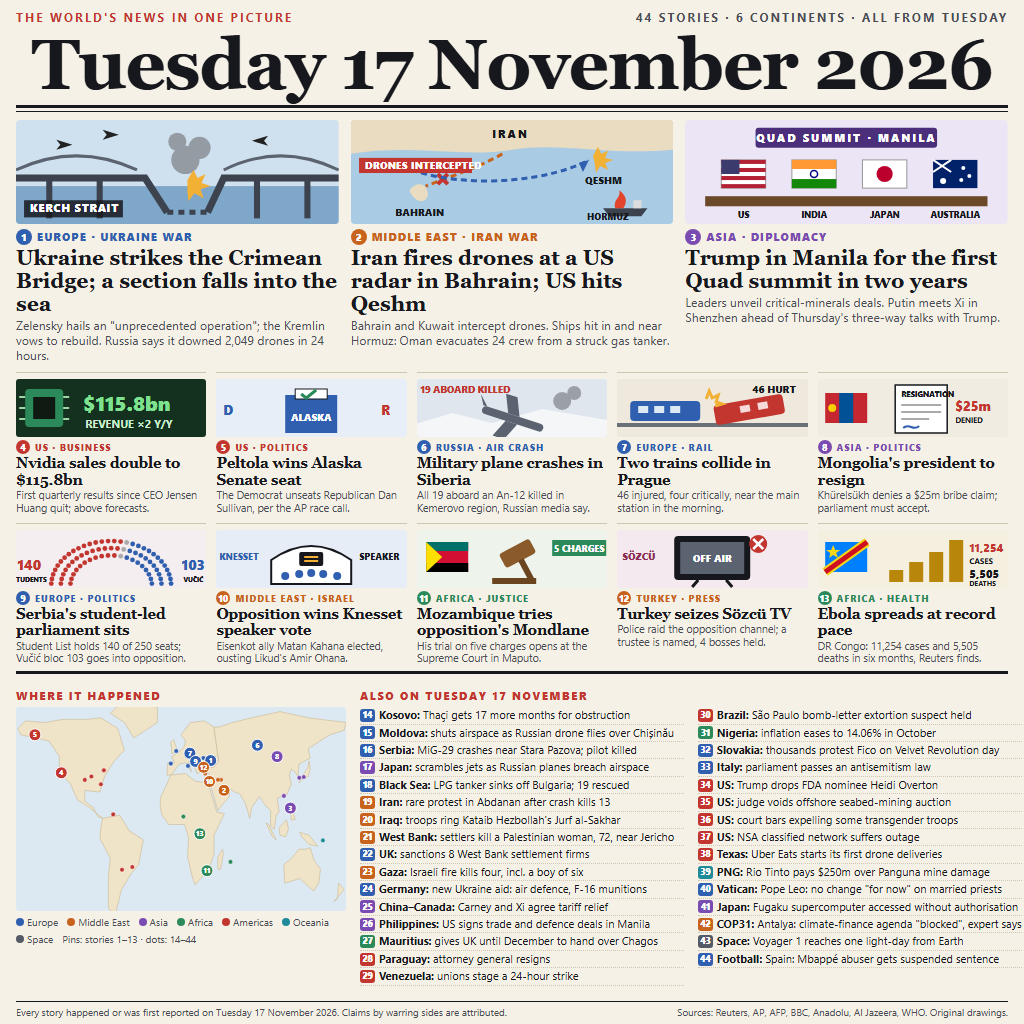
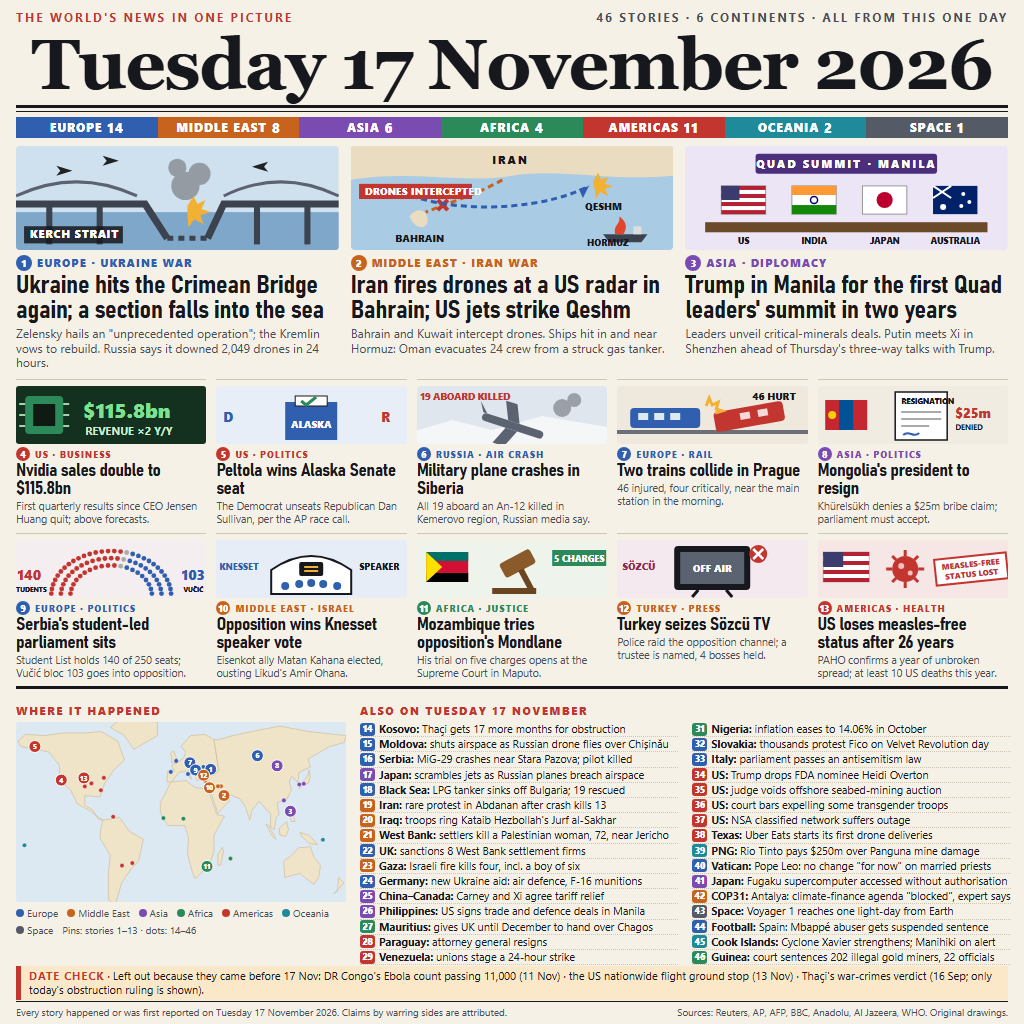
Version 3: condensed headlines, region band, date check, measles story

diff --git a/scene.html b/scene.html
@@ -15,6 +15,12 @@
   .top .l { color:var(--am); } .top .r { color:var(--muted); }
   h1 { margin:0; text-align:center; font-family:Georgia, serif; font-weight:700; font-size:71px; line-height:80px; letter-spacing:-1.5px; white-space:nowrap; }
   .rule2 { margin:0 16px; border-top:3px solid var(--ink); border-bottom:1px solid var(--ink); height:3px; }
+  .band { display:flex; margin:5px 16px 0; height:21px; }
+  .band span { flex:1; color:#fff; font-size:11.5px; font-weight:800; letter-spacing:1.2px; display:flex; align-items:center; justify-content:center; gap:5px; }
+  .band b { font-size:13px; }
+  .cond { font-family:Bahnschrift, "Arial Narrow", Arial, sans-serif; font-stretch:condensed; font-weight:700; letter-spacing:-.2px; }
+  .datecheck { position:absolute; left:16px; right:16px; bottom:24px; background:#fbe8c8; border-left:5px solid var(--am); padding:3px 8px; font-size:11px; line-height:14px; }
+  .datecheck b { color:var(--am); letter-spacing:1px; }
 
   /* leads */
   .leads { display:grid; grid-template-columns:repeat(3,1fr); gap:12px; padding:8px 16px 0; }
@@ -22,8 +28,8 @@
   .lead .pic svg { width:100%; height:100%; display:block; }
   .kick { font-size:10.5px; font-weight:800; letter-spacing:1.4px; text-transform:uppercase; margin-top:5px; display:flex; align-items:center; gap:5px; }
   .num { display:inline-flex; width:16px; height:16px; border-radius:50%; color:#fff; font-size:10px; font-weight:800; align-items:center; justify-content:center; letter-spacing:0; flex:none; }
-  .lead h2 { font-family:Georgia, serif; font-size:21px; line-height:23px; margin:2px 0 2px; }
-  .lead p { margin:0; font-size:12.2px; line-height:15px; color:var(--muted); }
+  .lead h2 { font-family:Bahnschrift, "Arial Narrow", Arial, sans-serif; font-stretch:condensed; font-weight:700; font-size:25px; line-height:25px; margin:2px 0 3px; letter-spacing:-.3px; }
+  .lead p { margin:0; font-size:12px; line-height:14.6px; color:var(--muted); }
 
   /* cards */
   .cards { display:grid; grid-template-columns:repeat(5,1fr); gap:8px 10px; padding:9px 16px 0; }
@@ -32,16 +38,16 @@
   .card .pic svg { width:100%; height:100%; display:block; }
   .card .kick { font-size:9px; letter-spacing:1px; margin-top:3px; }
   .card .num { width:14px; height:14px; font-size:9px; }
-  .card h3 { font-family:Georgia, serif; font-size:14.6px; line-height:16.5px; margin:1px 0 1px; }
+  .card h3 { font-family:Bahnschrift, "Arial Narrow", Arial, sans-serif; font-stretch:condensed; font-weight:700; font-size:17.5px; line-height:18px; margin:1px 0 2px; letter-spacing:-.2px; }
   .card p { margin:0; font-size:10.6px; line-height:12.8px; color:var(--muted); }
 
   /* bottom */
   .bottom { display:grid; grid-template-columns:330px 1fr; gap:14px; padding:8px 16px 0; margin-top:6px; border-top:3px solid var(--ink); margin-left:16px; margin-right:16px; padding-left:0; padding-right:0; }
   .sec { font-size:11px; font-weight:800; letter-spacing:1.6px; color:var(--am); margin:6px 0 4px; }
-  #map { width:330px; height:204px; display:block; background:#dce9f2; border-radius:3px; }
+  #map { width:330px; height:180px; display:block; background:#dce9f2; border-radius:3px; }
   .legend { display:flex; flex-wrap:wrap; gap:3px 9px; font-size:10px; color:var(--muted); margin-top:4px; }
   .legend i { display:inline-block; width:8px; height:8px; border-radius:50%; margin-right:3px; }
-  .also { columns:2; column-gap:14px; font-size:11px; line-height:16.4px; }
+  .also { columns:2; column-gap:14px; font-size:10.8px; line-height:14.2px; }
   .also div { break-inside:avoid; border-bottom:1px dotted var(--rule); padding:0 0 0 0; white-space:nowrap; overflow:hidden; text-overflow:clip; }
   .also .num { width:15px; height:13px; border-radius:3px; font-size:8.5px; margin-right:4px; vertical-align:1px; }
   .also b { font-weight:700; }
@@ -50,9 +56,10 @@
 </head>
 <body>
 
-<div class="top"><span class="l">THE WORLD'S NEWS IN ONE PICTURE</span><span class="r">44 STORIES · 6 CONTINENTS · ALL FROM TUESDAY</span></div>
+<div class="top"><span class="l">THE WORLD'S NEWS IN ONE PICTURE</span><span class="r" id="tally"></span></div>
 <h1>Tuesday 17 November 2026</h1>
 <div class="rule2"></div>
+<div class="band" id="band"></div>
 
 <section class="leads">
   <div class="lead">
@@ -69,7 +76,7 @@
       <rect x="8" y="80" width="98" height="17" fill="#16181d" opacity=".85"/><text x="14" y="92" font-size="10.5" font-weight="800" fill="#fff" letter-spacing="1">KERCH STRAIT</text>
     </svg></div>
     <div class="kick" style="color:var(--eu)"><span class="num" style="background:var(--eu)">1</span>Europe · Ukraine war</div>
-    <h2>Ukraine strikes the Crimean Bridge; a section falls into the sea</h2>
+    <h2>Ukraine hits the Crimean Bridge again; a section falls into the sea</h2>
     <p>Zelensky hails an "unprecedented operation"; the Kremlin vows to rebuild. Russia says it downed 2,049 drones in 24 hours.</p>
   </div>
   <div class="lead">
@@ -90,7 +97,7 @@
       <rect x="8" y="38" width="112" height="15" fill="#c2362f"/><text x="14" y="49" font-size="9.5" font-weight="800" fill="#fff" letter-spacing=".5">DRONES INTERCEPTED</text>
     </svg></div>
     <div class="kick" style="color:var(--me)"><span class="num" style="background:var(--me)">2</span>Middle East · Iran war</div>
-    <h2>Iran fires drones at a US radar in Bahrain; US hits Qeshm</h2>
+    <h2>Iran fires drones at a US radar in Bahrain; US jets strike Qeshm</h2>
     <p>Bahrain and Kuwait intercept drones. Ships hit in and near Hormuz: Oman evacuates 24 crew from a struck gas tanker.</p>
   </div>
   <div class="lead">
@@ -105,7 +112,7 @@
       <g font-size="8.5" font-weight="800" fill="#16181d" text-anchor="middle"><text x="58" y="98">US</text><text x="128" y="98">INDIA</text><text x="198" y="98">JAPAN</text><text x="268" y="98">AUSTRALIA</text></g>
     </svg></div>
     <div class="kick" style="color:var(--as)"><span class="num" style="background:var(--as)">3</span>Asia · Diplomacy</div>
-    <h2>Trump in Manila for the first Quad summit in two years</h2>
+    <h2>Trump in Manila for the first Quad leaders' summit in two years</h2>
     <p>Leaders unveil critical-minerals deals. Putin meets Xi in Shenzhen ahead of Thursday's three-way talks with Trump.</p>
   </div>
 </section>
@@ -115,7 +122,7 @@
 <section class="bottom">
   <div>
     <div class="sec">WHERE IT HAPPENED</div>
-    <svg id="map" viewBox="0 0 330 204"></svg>
+    <svg id="map" viewBox="0 0 330 180"></svg>
     <div class="legend" id="legend"></div>
   </div>
   <div>
@@ -124,6 +131,7 @@
   </div>
 </section>
 
+<div class="datecheck"><b>DATE CHECK</b> · Left out because they came before 17 Nov: DR Congo's Ebola count passing 11,000 (11 Nov) · the US nationwide flight ground stop (13 Nov) · Thaçi's war-crimes verdict (16 Sep; only today's obstruction ruling is shown).</div>
 <footer><span>Every story happened or was first reported on Tuesday 17 November 2026. Claims by warring sides are attributed.</span><span>Sources: Reuters, AP, AFP, BBC, Anadolu, Al Jazeera, WHO. Original drawings.</span></footer>
 
 <script>
@@ -161,6 +169,9 @@ const P = {
   tv: `<rect width="200" height="58" fill="#f3e9ee"/><rect x="62" y="6" width="76" height="44" rx="4" fill="#16181d"/><rect x="68" y="12" width="64" height="32" fill="#5b6270"/>
          <text x="100" y="32" font-size="10" font-weight="800" fill="#fff" text-anchor="middle">OFF AIR</text><circle cx="146" cy="14" r="9" fill="#c2362f"/><path d="M141 9l10 10M151 9l-10 10" stroke="#fff" stroke-width="2.5"/>
          <path d="M86 50 l-6 7 M114 50 l6 7" stroke="#16181d" stroke-width="3"/><text x="10" y="30" font-size="10" font-weight="800" fill="#8e2b52">SÖZCÜ</text>`,
+  measles: `<rect width="200" height="58" fill="#f6e6e6"/><g transform="translate(10 12)"><rect width="46" height="30" fill="#fff" stroke="#bbb"/><g fill="#b22234"><rect width="46" height="4"/><rect y="9" width="46" height="4"/><rect y="18" width="46" height="4"/><rect y="26" width="46" height="4"/></g><rect width="20" height="15" fill="#3c3b6e"/></g>
+         <g transform="translate(92 29)"><circle r="13" fill="#c2362f"/><g stroke="#c2362f" stroke-width="3"><path d="M0 -13v-6M0 13v6M-13 0h-6M13 0h6M9 -9l4 -4M-9 9l-4 4M9 9l4 4M-9 -9l-4 -4"/></g><circle cx="-4" cy="-3" r="3" fill="#f6c0c0"/><circle cx="5" cy="4" r="2.5" fill="#f6c0c0"/></g>
+         <rect x="122" y="16" width="72" height="26" fill="#fff" stroke="#c2362f" stroke-width="2" transform="rotate(-6 158 29)"/><text x="158" y="27" font-size="8" font-weight="800" fill="#c2362f" text-anchor="middle" transform="rotate(-6 158 29)">MEASLES-FREE</text><text x="158" y="37" font-size="8" font-weight="800" fill="#c2362f" text-anchor="middle" transform="rotate(-6 158 29)">STATUS LOST</text>`,
   ebola: `<rect width="200" height="58" fill="#f5efe0"/><g transform="translate(12 12)"><rect width="42" height="30" fill="#007fff"/><path d="M0 30 L42 0" stroke="#f7d618" stroke-width="9"/><path d="M0 30 L42 0" stroke="#ce1021" stroke-width="5"/><path d="M8 3 l2 5 l5 0 l-4 3 l2 5 l-5 -3 l-4 3 l1 -5 l-4 -3 l5 0z" fill="#f7d618"/></g>
          <g fill="#b8860b"><rect x="76" y="40" width="14" height="12"/><rect x="96" y="32" width="14" height="20"/><rect x="116" y="22" width="14" height="30"/><rect x="136" y="10" width="14" height="42"/></g>
          <text x="156" y="22" font-size="11" font-weight="800" fill="#c2362f">11,254</text><text x="156" y="34" font-size="8" font-weight="700" fill="#16181d">CASES</text><text x="156" y="48" font-size="11" font-weight="800" fill="#16181d">5,505</text><text x="156" y="56" font-size="7" font-weight="700" fill="#16181d">DEATHS</text>`,
@@ -176,7 +187,7 @@ const cards = [
   [10,'me','Middle East · Israel','knesset','Opposition wins Knesset speaker vote','Eisenkot ally Matan Kahana elected, ousting Likud\'s Amir Ohana.'],
   [11,'af','Africa · Justice','court',"Mozambique tries opposition's Mondlane",'His trial on five charges opens at the Supreme Court in Maputo.'],
   [12,'me','Turkey · Press','tv','Turkey seizes Sözcü TV','Police raid the opposition channel; a trustee is named, 4 bosses held.'],
-  [13,'af','Africa · Health','ebola','Ebola spreads at record pace','DR Congo: 11,254 cases and 5,505 deaths in six months, Reuters finds.'],
+  [13,'am','Americas · Health','measles','US loses measles-free status after 26 years','PAHO confirms a year of unbroken spread; at least 10 US deaths this year.'],
 ];
 document.getElementById('cards').innerHTML = cards.map(([n,r,k,p,h,d]) => `
   <div class="card"><div class="pic"><svg viewBox="0 0 200 58" preserveAspectRatio="xMidYMid slice">${P[p]}</svg></div>
@@ -229,12 +240,14 @@ const also = [
   [42,'me','COP31','Antalya: climate-finance agenda "blocked", expert says',[30.7,36.9]],
   [43,'gl','Space','Voyager 1 reaches one light-day from Earth',null],
   [44,'eu','Football','Spain: Mbappé abuser gets suspended sentence',[-5.8,43.4]],
+  [45,'oc','Cook Islands','Cyclone Xavier strengthens; Manihiki on alert',[-161,-10.4]],
+  [46,'af','Guinea','court sentences 202 illegal gold miners, 22 officials',[-13.7,9.5]],
 ];
 document.getElementById('also').innerHTML = also.map(([n,r,pl,t]) =>
   `<div><span class="num" style="background:${C[r]}">${n}</span><b>${pl}:</b> ${t}</div>`).join('');
 
 // world map: equirectangular, lon -170..180, lat -50..80, coarse continent outlines drawn by hand
-const W = 330, H = 204, lon0 = -170, lon1 = 180, lat0 = 80, lat1 = -52;
+const W = 330, H = 180, lon0 = -170, lon1 = 180, lat0 = 80, lat1 = -52;
 const X = lo => (lo - lon0) / (lon1 - lon0) * W, Y = la => (lat0 - la) / (lat0 - lat1) * H;
 const land = [
   [[-168,66],[-160,71],[-140,70],[-120,72],[-95,72],[-80,73],[-62,66],[-55,52],[-66,45],[-76,35],[-81,25],[-97,26],[-97,19],[-88,15],[-83,9],[-78,8],[-92,15],[-105,20],[-112,30],[-118,34],[-124,40],[-124,48],[-135,58],[-150,60],[-165,62]],
@@ -253,12 +266,18 @@ const land = [
 let m = land.map(p => `<path d="M${p.map(([a,b]) => X(a).toFixed(1)+' '+Y(b).toFixed(1)).join('L')}Z" fill="#efe3c8" stroke="#c9b893" stroke-width=".6"/>`).join('');
 for (const [n,r,,,ll] of also) if (ll) m += `<circle cx="${X(ll[0]).toFixed(1)}" cy="${Y(ll[1]).toFixed(1)}" r="2.3" fill="${C[r]}" stroke="#fff" stroke-width=".5"/>`;
 const pins = [[1,'eu',[36.5,45.3]],[2,'me',[50.6,26.1]],[3,'as',[121,14.6]],[4,'am',[-122,37.4]],[5,'am',[-150,62]],[6,'eu',[86,55.3]],
-              [7,'eu',[14.4,50.1]],[8,'as',[106.9,47.9]],[9,'eu',[20.5,44.8]],[10,'me',[35.2,31.8]],[11,'af',[32.6,-25.9]],[12,'me',[29,41]],[13,'af',[25,-2]]];
+              [7,'eu',[14.4,50.1]],[8,'as',[106.9,47.9]],[9,'eu',[20.5,44.8]],[10,'me',[35.2,31.8]],[11,'af',[32.6,-25.9]],[12,'me',[29,41]],[13,'am',[-98,39]]];
 for (const [n,r,[lo,la]] of pins) m += `<g><circle cx="${X(lo).toFixed(1)}" cy="${Y(la).toFixed(1)}" r="6" fill="${C[r]}" stroke="#fff" stroke-width="1"/><text x="${X(lo).toFixed(1)}" y="${(Y(la)+2.6).toFixed(1)}" font-size="7" font-weight="800" fill="#fff" text-anchor="middle" font-family="Segoe UI, Arial">${n}</text></g>`;
 document.getElementById('map').innerHTML = m;
 
+// region band and tally, counted from every story on the page (leads 1-3 included)
+const leadRegions = ['eu','me','as'], all = [...leadRegions, ...cards.map(c => c[1]), ...also.map(a => a[1])];
+const names = [['eu','EUROPE'],['me','MIDDLE EAST'],['as','ASIA'],['af','AFRICA'],['am','AMERICAS'],['oc','OCEANIA'],['gl','SPACE']];
+document.getElementById('band').innerHTML = names.map(([k,l]) => `<span style="background:${C[k]}">${l} <b>${all.filter(r => r === k).length}</b></span>`).join('');
+document.getElementById('tally').textContent = `${all.length} STORIES · 6 CONTINENTS · ALL FROM THIS ONE DAY`;
+
 document.getElementById('legend').innerHTML = [['eu','Europe'],['me','Middle East'],['as','Asia'],['af','Africa'],['am','Americas'],['oc','Oceania'],['gl','Space']]
-  .map(([k,l]) => `<span><i style="background:${C[k]}"></i>${l}</span>`).join('') + '<span>Pins: stories 1–13 · dots: 14–44</span>';
+  .map(([k,l]) => `<span><i style="background:${C[k]}"></i>${l}</span>`).join('') + '<span>Pins: stories 1–13 · dots: 14–46</span>';
 </script>
 </body>
 </html>

diff --git a/README.md b/README.md
@@ -4,7 +4,7 @@
 [![rank](https://make.fun/badge/news-image-20261117/leminhtri1/news-image-20261117/rank.svg)](https://make.fun/bounty/news-image-20261117/leaderboard?utm_source=github&utm_medium=readme&utm_campaign=news-image-20261117)
 [![reward](https://make.fun/badge/news-image-20261117/leminhtri1/news-image-20261117/reward.svg)](https://make.fun/bounty/news-image-20261117?utm_source=github&utm_medium=readme&utm_campaign=news-image-20261117)
 
-One picture of the world's news on Tuesday 17 November 2026: a dated front page of 44 stories from six continents. Three illustrated leads (the Crimean Bridge strike, Iran's drones at a US radar in Bahrain and US strikes on Qeshm, Trump at the Quad summit in Manila), ten illustrated stories, a world map pinning where each happened, and a two-column list of the rest.
+One picture of the world's news on Tuesday 17 November 2026: a dated front page of 46 stories from six continents, counted by region, with a date check of what was left out. Three illustrated leads (the Crimean Bridge strike, Iran's drones at a US radar in Bahrain and US strikes on Qeshm, Trump at the Quad summit in Manila), ten illustrated stories, a world map pinning where each happened, and a two-column list of the rest.
 
 `scene.html` is the source of the picture; `render.py` renders it with headless Chrome/Edge to `entry.png`; `main.py` copies that PNG to `/output/entry.png` (no network, identical bytes every run).
 
